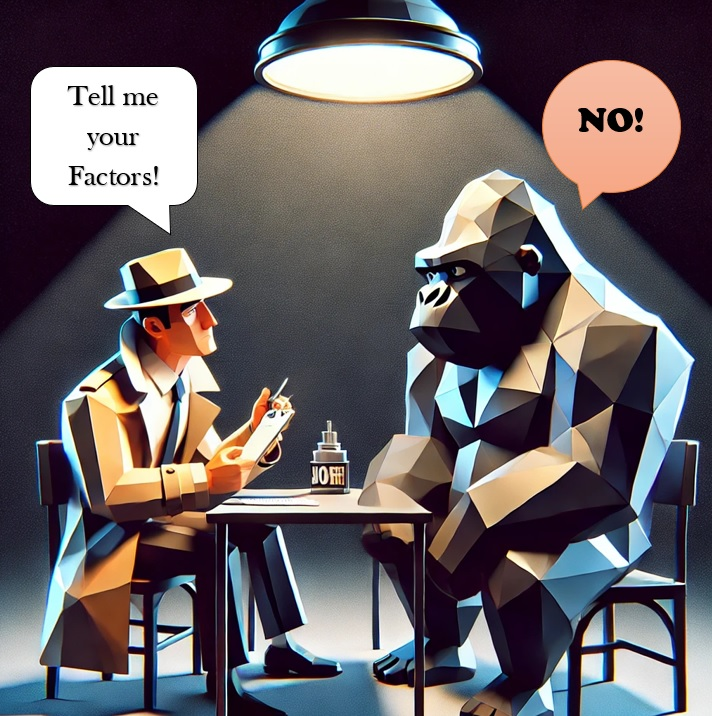
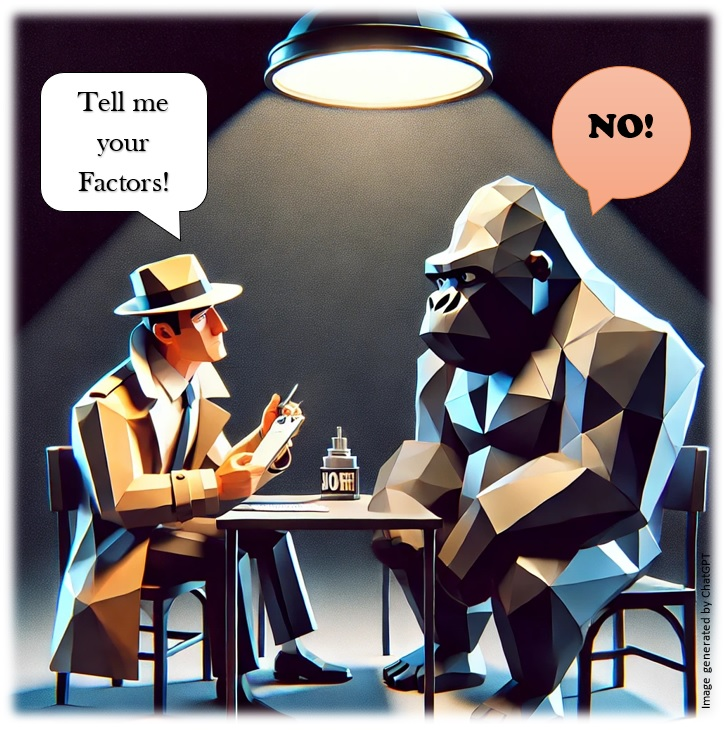
eh

diff --git a/_posts/2025-01-03-gcd.md b/_posts/2025-01-03-gcd.md
@@ -9,23 +9,24 @@ caption: Greatest Common Denominator (GCD)
 project-link: /gcd
 ---
 Factoring is known to be a difficult problem, (<a style="font-size:small" href="https://www.claymath.org/millennium/p-vs-np/" target="_blank">Citation needed</a>).
+
 The numbers seem unwilling to divulge any non-trivial factors, much like a recalcitrant prisoner might obstinately refuse to answer a detective's
-queries to avoid implicating themselves.<!--more-->
+queries to avoid implicating themselves...<!--more-->
+
 <img src="/sloi/img/fact/gcd/gcd1.jpg" style="max-width:75%"/>
 
-There are tons of resources about the [Greatest Common Denominator](https://en.wikipedia.org/wiki/Greatest_common_divisor) (GCD),
-and why it works, so I won't seek to improve on that.
-However, what's often absent is just how awesome and useful the GCD actually is:  Literally one of Math's powertools.
+But, our detective is clever and crafty 
 
-So, in appreciation of this, I present the following meme:
-<br/>
 <h2>Detective Euclid cracks another case</h2>
 <img src="/sloi/img/fact/gcd/gcd2.jpg" style="max-width:75%"/>
 
+So, in appreciation of this, I present the following meme:
 
 It seems amazing to me, given that factoring is such a difficult problem, (<a style="font-size:small" href="https://www.claymath.org/millennium/p-vs-np/" target="_blank">Citation needed</a>)
 With a number seemingly unwilling to divulge any non-trivial factors.  But, simply ask about another number ala the GCD, and it'll happily spill the beans on largest factor it might have in common.
 
-
+There are tons of resources about the [Greatest Common Denominator](https://en.wikipedia.org/wiki/Greatest_common_divisor) (GCD),
+and why it works, so I won't seek to improve on that.
+However, what's often absent is just how awesome and useful the GCD actually is:  Literally one of Math's powertools.
 
 
